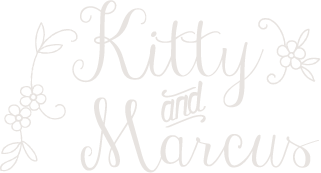
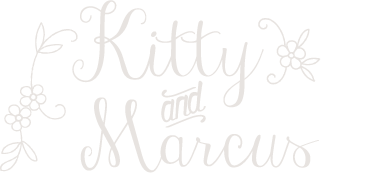
responcive imgs

diff --git a/public/partials/rsvp.html b/public/partials/rsvp.html
@@ -1,6 +1,6 @@
 <div ng-controller="rsvpCtrl as rsvp" ng-init="rsvp.isAttending=true">
-  <div class="row head-img text-center">
-    <img src="images/rsvp.png">
+  <div class="row text-center">
+    <img src="images/rsvp.png" class="img-responsive" alt="RSVP">
     <h3>Can you attend?</h3>
     <h3 class="btn btn-default btn-md" ng-click="rsvp.rsvp(true)">YES</h3>
     <h3 class="btn btn-default btn-md" ng-click="rsvp.rsvp(false)">NO</h3>
@@ -8,7 +8,7 @@
   <div ng-show="rsvp.isAttending && !rsvp.hideForm">
     <div class="row text-left "> 
       <form ng-submit="rsvp.addGuest()">
-        <div class="col-sm-6 col-md-offset-1 col-lg-offset-1">
+        <div class="col-sm-6 col-md-4 col-md-offset-2 col-lg-4 col-lg-offset-2">
           <h3>Please fill out for each guest</h3>
           <label>first name</label>
           <input type="text" class="transparent-input" placeholder="Susie" ng-model="rsvp.name_first" ng-required="true"></input>
@@ -26,7 +26,7 @@
           <input type="text" class="transparent-input" placeholder="The Twist" ng-model="rsvp.song"></input>
           
         </div>
-        <div class="col-sm-4">
+        <div class="col-sm-6 col-md-4 col-lg-4">
           <h3>Menu Preference</h3>
           <label>
             <input type="radio" ng-model="rsvp.food" value="med" ng-required="!rsvp.food">
@@ -48,7 +48,7 @@
   <div ng-hide="rsvp.isAttending || rsvp.hideForm">
     <div class="row text-left "> 
       <form ng-submit="rsvp.addGuest()">
-        <div class="col-sm-6 col-md-offset-1 col-lg-offset-1">
+        <div class="col-sm-6 col-md-4 col-md-offset-2 col-lg-4 col-lg-offset-2">
           <h3>Please fill out for each guest</h3>
           <label>first name</label>
           <input type="text" class="transparent-input" placeholder="Susie" ng-model="rsvp.name_first" ng-required="true"></input>
@@ -62,7 +62,7 @@
           <label>email</label>
           <input type="text" class="transparent-input" placeholder="Email" ng-model="rsvp.email"></input>
         </div>
-        <div class="col-sm-4">
+        <div class="col-sm-6 col-md-4 col-lg-4">
           <h3>Message for the Couple</h3>
           <textarea ng-model="rsvp.msg" class="transparent-input" rows="5"></textarea>
           <button class="btn btn-default btn-md" type="submit" >DECLINE</button>

diff --git a/public/partials/about.html b/public/partials/about.html
@@ -1,6 +1,10 @@
-<div class="row head-img text-center">
-  <img src="images/our-story.png">
-
+<div class="row text-center">
+  <p>
+    <img src="images/our-story.png" class="img-responsive" alt="Our Story"><br>
+    <img src="images/kam-at-bar.png" class="img-responsive" alt="Kitty and Marcus at the bar">
+  </p>
+  <div class="col-lg-8 col-lg-offset-2">
     <p>October 2009 Marcus started attending and submitting work to art shows in Detroit. He was accepted by 2 shows scheduled the same week. Halloween was just around the corner. Marcus found himself right in the middle of a full crowd at Bert's Warehouse for Detroit's Annual Erotica ball. Everyone was entertained by all the art, and dancing ladies. One in particular stole Marcus' attention with an electric performance. As it ended, the ladies made their way through the crowd. She was walking right towards him, turning heads with every step. Some liquid courage made their introduction a little easier, but every bit bizarre. Little did either know that this was the 1st of 3 occasions where they would meet over the next week, by chance.  A couple days later, they met at an open mic, and at another the next night. The following day they saw each other again during the DAMNED Exhibition at the Tangent Gallery, and escorted each other to the last evening of the show. This would eventually become the place where Marcus would propose to Kitty, on their 5th year together, on their favorite holiday, at their favorite venue. </p>
   </div>
 
+</div>

diff --git a/public/partials/home.html b/public/partials/home.html
@@ -1,22 +1,21 @@
-<div class="row head-img text-center">
-  <img src="images/kam.png">
-  <h3 class="bump-right">
-    are tying the knot on<br>
-    SUNDAY SEPTEMBER SIXTH<br>
-  </h3>
+<div class="row text-center">
+  <img src="images/kam.png" class="img-responsive" alt="Kitty and Marcus">
+
 </div>
 <div class="row text-center">       
-  <div class="col-sm-6 col-md-offset-2 col-lg-offset-2 ">
-    
-    
-    <h2>that's in</h2>
+  <div class="col-lg-4 col-lg-offset-4 col-md-4 col-md-offset-4"> 
+    <h2>
+      are tying the knot on<br>
+      Sunday September Sixth<br>
+      that's in
+    </h2>
     <iframe src="//free.timeanddate.com/countdown/i4rqbe89/n77/cf11/cm0/cu2/ct2/cs1/ca0/co0/cr0/ss0/cacf1f1f1/cpcf1f1f1/pct/tcfff/fn3/fs200/szw320/szh135/iso2015-09-06T15:00:00" allowTransparency="true" frameborder="0" width="191" height="37"></iframe>
     <h3>
     we hope you can join us
     </h3>
     <a href="#rsvp" class="btn btn-default btn-lg">RSVP Here</a>
   </div>
-  <div class="col-sm-4">
-    <img src="images/pol-pic.png">
+  <div class="col-lg-4 col-md-4">
+    <img src="images/pol-pic.png" class="img-responsive" alt="Old pic of Kitty and Marcus kissing">
   </div>
 </div>    

diff --git a/public/partials/more.html b/public/partials/more.html
@@ -1,9 +1,9 @@
-<div class="row head-img text-center">
-  <img src="images/add-info.png">
+<div class="row text-center">
+  <img src="images/add-info.png" class="img-responsive" alt="Additional Information">
 </div>
 
 <div class="row head-img">
-  <div class="col-sm-6 text-right">
+  <div class="col-sm-6 col-md-3 col-md-offset-3 col-lg-3 col-lg-offset-3 text-right">
     <h2>Acomidations</h2>
     <img src="images/curl-l.png">
     <a href="http://www.hotelstregisdetroit.com/"><br>
@@ -22,7 +22,7 @@
     <h4>We recommend searching for hotels close to I-75 for other options.</h4>
 
   </div>
-  <div class="col-sm-6 text-left">
+  <div class="col-sm-6 col-md-3 col-lg-3 text-left">
     <h2>Registries</h2>
     <img src="images/curl-r.png">
     <h3>Kitty and Marcus are registered at</h3>

diff --git a/public/partials/locales.html b/public/partials/locales.html
@@ -1,9 +1,9 @@
-<div class="row head-img text-center">
-  <img src="images/locales.png">
+<div class="row text-center">
+  <img src="images/locales.png" class="img-responsive" alt="Locales">
 </div>
 
 <div class="row head-img">
-  <div class="col-sm-6 text-right">
+  <div class="col-sm-6 col-md-3 col-md-offset-3 col-lg-3 col-lg-offset-3 text-right">
 
     <a href="http://www.tangentgallery.com/Tangent_Gallery/Home.html">
     <h2>Tangent Gallery</h2>
@@ -17,7 +17,7 @@
     </p>
 
   </div>
-  <div class="col-sm-6 text-left">
+  <div class="col-sm-6 col-md-3 col-lg-3 text-left">
     <a href="http://www.michigan.gov/dnr/0,4570,7-153-10365_67024---,00.html">
     <h2>Belle Isle</h2>
     <img src="images/curl-r.png">

diff --git a/public/stylesheets/style.css b/public/stylesheets/style.css
@@ -73,10 +73,6 @@ button.form {
   margin-left: 30px;
 }
 
-.head-img{
-  margin-left: 50px;
-}
-
 #board {
   -webkit-transition:all linear 1s;
   transition:all linear 1s;
@@ -84,4 +80,8 @@ button.form {
 
 #board.ng-hide {
   opacity:0;
+}
+
+.img-responsive {
+  display: inline;
 }
